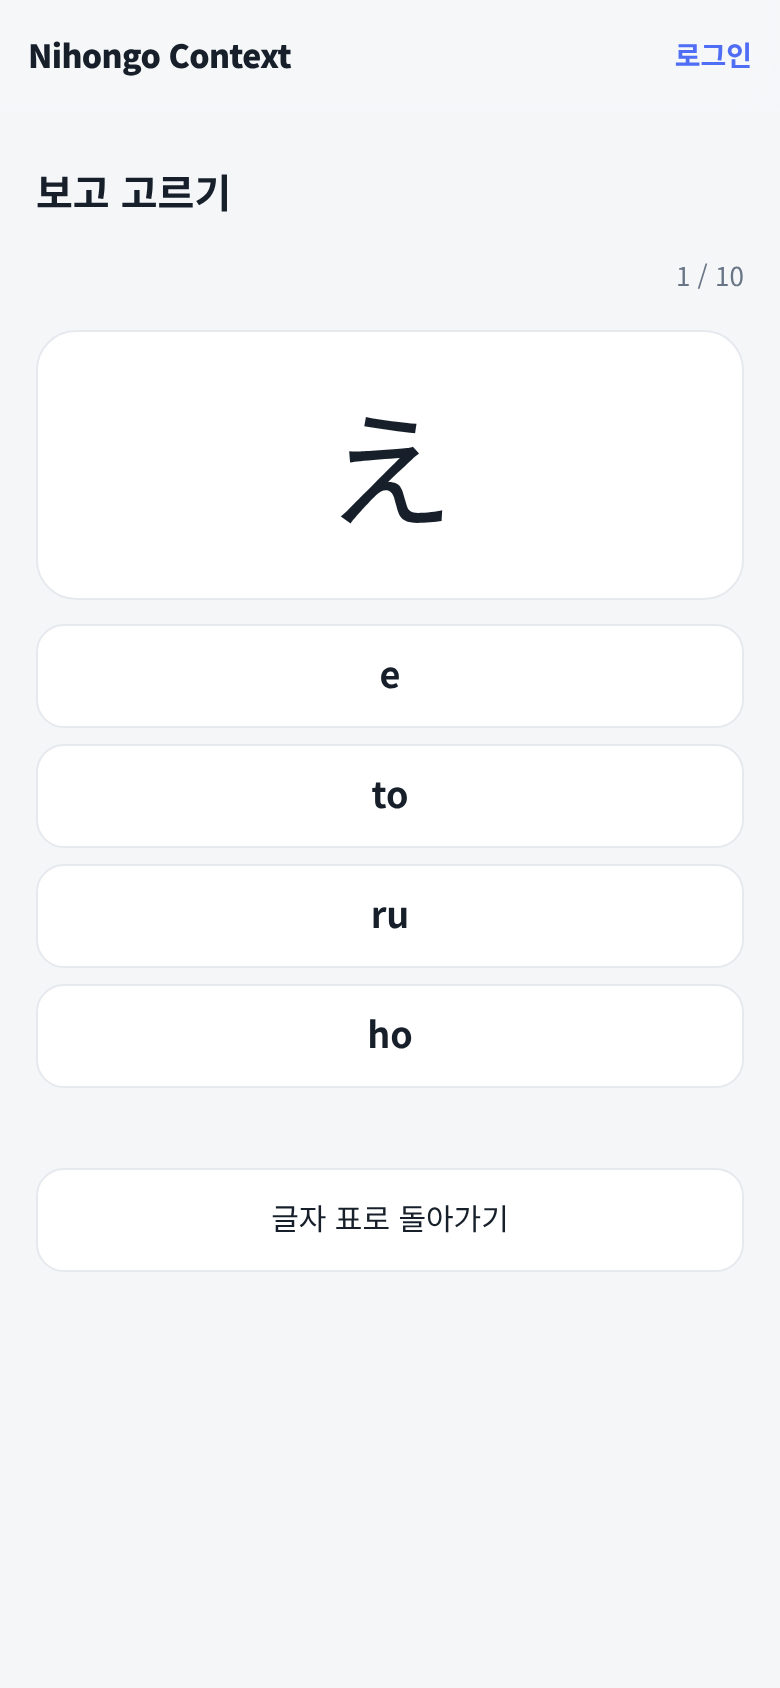
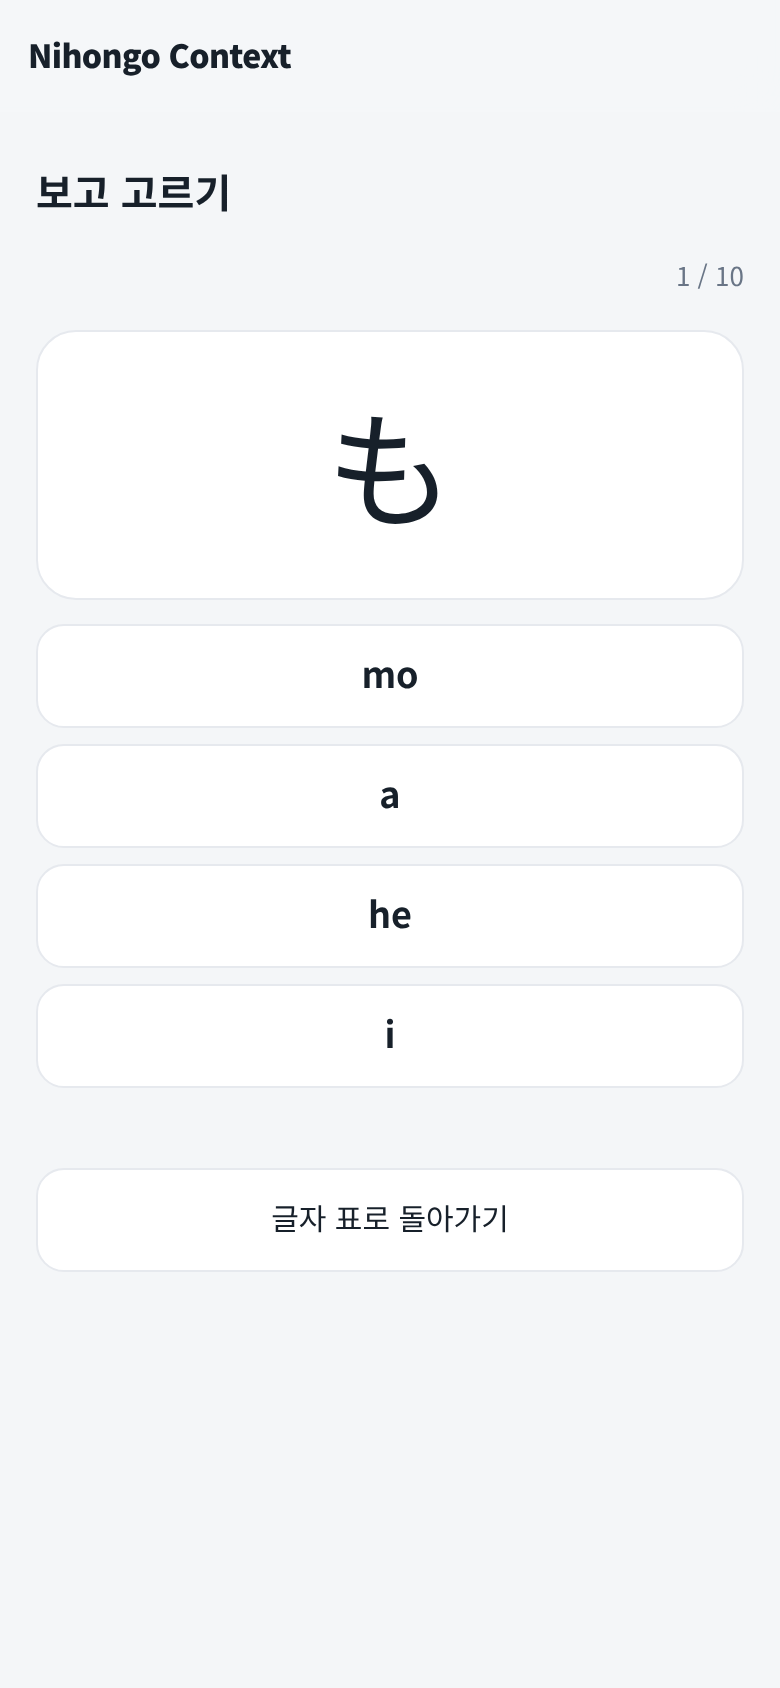
Nihongo Context page: drop trial and owner-only login content
- Copy no longer describes a login-free trial or an owner-only account; the public-trial
  highlight is replaced by single-host operations, and the zero-API-call stat by the
  13 generation checks
- Screenshots retaken without the trial banner and login button; home shot replaced
  by the katakana loanword list
- Diagram labels no longer say trial or study only

Claude-Session: https://claude.ai/code/session_015RcEmhiTXzsX84TqVGpdRG

diff --git a/app_nihongo.html b/app_nihongo.html
@@ -59,11 +59,11 @@
 
     <section class="detail-section" id="s1">
       <h2><span class="num">01</span><span data-lang="detail_common_a_s1">Why I built it</span></h2>
-      <p data-lang="detail_nihongo_overview">Textbook study and exam preparation did not get me closer to following everyday Japanese on YouTube. That takes recognising many words, grammar patterns and set phrases inside real sentences, and flashcards strip them out of the sentences they live in. Nihongo Context turns this around. You read a Japanese sentence with the translation hidden, tap only what you do not know, and read what that expression means in this sentence. The app then decides when the expression should come back and in which context, starting with the sentence where you first met it and moving on to sentences you have never seen. Visitors can try the same interaction on 171 fixed sentences, and practise hiragana and katakana, without logging in.</p>
+      <p data-lang="detail_nihongo_overview">Textbook study and exam preparation did not get me closer to following everyday Japanese on YouTube. That takes recognising many words, grammar patterns and set phrases inside real sentences, and flashcards strip them out of the sentences they live in. Nihongo Context turns this around. You read a Japanese sentence with the translation hidden, tap only what you do not know, and read what that expression means in this sentence. The app then decides when the expression should come back and in which context, starting with the sentence where you first met it and moving on to sentences you have never seen. Alongside the sentences, it teaches hiragana and katakana with tables and quizzes.</p>
       <div class="findings">
         <div class="finding"><div class="k" data-lang="detail_nihongo_goal1_label">Context over cards</div><p data-lang="detail_nihongo_goal1_body">Every review shows an expression inside a sentence, and the context gets less familiar as the expression gets more familiar.</p></div>
         <div class="finding"><div class="k" data-lang="detail_nihongo_goal2_label">Never wait on a model</div><p data-lang="detail_nihongo_goal2_body">An LLM writes new sentences in the background. A tap is always answered from explanations that already exist.</p></div>
-        <div class="finding"><div class="k" data-lang="detail_nihongo_goal3_label">Nothing untrusted reaches the learner</div><p data-lang="detail_nihongo_goal3_body">Generated sentences pass deterministic checks before they are stored, and stored browser state is validated before it is used.</p></div>
+        <div class="finding"><div class="k" data-lang="detail_nihongo_goal3_label">Nothing untrusted reaches the learner</div><p data-lang="detail_nihongo_goal3_body">Generated sentences pass deterministic checks before they are stored, and retried or duplicate answers are rejected instead of applied twice.</p></div>
       </div>
     </section>
 
@@ -73,15 +73,15 @@
         <li data-lang="detail_nihongo_feature1">Sentence-first study: tap an expression to see its reading, dictionary form, core meaning, meaning in this sentence, nuance and an example, then optionally say whether you knew it.</li>
         <li data-lang="detail_nihongo_feature2">A 12-minute session that mixes review, new and exploration sentences at 70/20/10, and switches to a review-heavy mix when too many items are due.</li>
         <li data-lang="detail_nihongo_feature3">Review timing by FSRS, and review context by a ladder: the original sentence, a near-copy, then new sentences, stepping back after an explicit "didn't know".</li>
-        <li data-lang="detail_nihongo_feature4">A login-free trial with 171 fixed sentences covering all 200 seed expressions, using the same renderer and interaction code as the real study screen.</li>
+        <li data-lang="detail_nihongo_feature4">A seed library of 200 expressions in 765 sentences, where every tappable expression ships with its explanation, so opening one never waits on a model.</li>
         <li data-lang="detail_nihongo_feature5">Hiragana and katakana tables across seven ranges (263 entries) with two quiz modes, and a furigana toggle that places readings over kanji.</li>
-        <li data-lang="detail_nihongo_feature6">Owner-only login with Argon2id and a strict host-only session cookie, study history, and a background worker that keeps the sentence pool topped up.</li>
+        <li data-lang="detail_nihongo_feature6">Study history per session and per expression, and a background worker that keeps the sentence pool topped up.</li>
       </ul>
       <div class="shots">
-        <figure class="evidence" data-evidence="0"><figcaption data-lang="detail_nihongo_shot1">Home: visitors choose between the expression trial and kana practice, with no account. The interface is in Korean because the app is built for Korean speakers learning Japanese.</figcaption></figure>
-        <figure class="evidence" data-evidence="1"><figcaption data-lang="detail_nihongo_shot2">Tapping 知っ opens the explanation sheet: reading, dictionary form, meaning, meaning in this sentence, nuance and an example. Rating it is optional.</figcaption></figure>
-        <figure class="evidence" data-evidence="2"><figcaption data-lang="detail_nihongo_shot3">Furigana on and translation revealed. The readings were computed when the sentence was saved, not when it is shown.</figcaption></figure>
-        <figure class="evidence" data-evidence="3"><figcaption data-lang="detail_nihongo_shot4">Hiragana table with seven ranges; each entry shows romaji and a Korean sound approximation.</figcaption></figure>
+        <figure class="evidence" data-evidence="0"><figcaption data-lang="detail_nihongo_shot1">Tapping 知っ opens the explanation sheet: reading, dictionary form, meaning, meaning in this sentence, nuance and an example. Rating it is optional. The interface is in Korean because the app is built for Korean speakers learning Japanese.</figcaption></figure>
+        <figure class="evidence" data-evidence="1"><figcaption data-lang="detail_nihongo_shot2">Furigana on and translation revealed. The readings were computed when the sentence was saved, not when it is shown.</figcaption></figure>
+        <figure class="evidence" data-evidence="2"><figcaption data-lang="detail_nihongo_shot3">Hiragana table with seven ranges; each entry shows romaji and a Korean sound approximation.</figcaption></figure>
+        <figure class="evidence" data-evidence="3"><figcaption data-lang="detail_nihongo_shot4">Katakana loanwords: a word list with romaji and Korean meanings.</figcaption></figure>
         <figure class="evidence" data-evidence="4"><figcaption data-lang="detail_nihongo_shot5">Kana quiz, choose-the-romaji mode. Missed characters come back once at the end of the round.</figcaption></figure>
         <figure class="evidence" data-evidence="5"><figcaption data-lang="detail_nihongo_shot6">Kana quiz, read-aloud mode: reveal the answer, then mark yourself right or wrong.</figcaption></figure>
       </div>
@@ -89,9 +89,9 @@
 
     <section class="detail-section" id="s3">
       <h2><span class="num">03</span><span data-lang="detail_common_a_s3">How it works</span></h2>
-      <p data-lang="detail_nihongo_arch_body">The system has four parts with strict boundaries. The frontend is static TypeScript on Cloudflare; the home, trial and kana screens run entirely on data bundled into it and make no API calls. Logged-in study goes to a FastAPI service reached through a Cloudflare Tunnel, which reads and writes learning state in PostgreSQL and picks the next sentence. It never talks to the LLM. A separate worker claims jobs from a PostgreSQL table, asks the LLM for batches of sentences with explanations, validates them, adds furigana with a morphological analyzer, and stores them. The API, the worker and PostgreSQL run in Docker Compose on one host, with the database bound to localhost.</p>
+      <p data-lang="detail_nihongo_arch_body">The system has four parts with strict boundaries. The frontend is static TypeScript on Cloudflare, and kana practice runs entirely in the browser. Study goes to a FastAPI service reached through a Cloudflare Tunnel, which reads and writes learning state in PostgreSQL and picks the next sentence. It never talks to the LLM. A separate worker claims jobs from a PostgreSQL table, asks the LLM for batches of sentences with explanations, validates them, adds furigana with a morphological analyzer, and stores them. The API, the worker and PostgreSQL run in Docker Compose on one host, with the database bound to localhost.</p>
       <figure class="diagram" data-illus="nihongo.arch" role="img" aria-label="Browser, static hosting, FastAPI, PostgreSQL, worker and LLM, with the API never calling the LLM.">
-        <figcaption data-lang="detail_nihongo_fig_arch">The request path (browser, API, PostgreSQL) never waits on the LLM. Generation happens in the worker, and the public screens do not use the API at all.</figcaption>
+        <figcaption data-lang="detail_nihongo_fig_arch">The request path (browser, API, PostgreSQL) never waits on the LLM. Generation happens ahead of time in the worker.</figcaption>
       </figure>
       <div class="flow">
         <div class="step"><i>1</i><b data-lang="detail_nihongo_pipeline_step1_title">Read</b><span data-lang="detail_nihongo_pipeline_step1">The learner sees a Japanese sentence with the translation hidden. Tappable expressions already carry their explanations.</span></div>
@@ -108,9 +108,9 @@
         <div class="highlight"><b data-lang="detail_nihongo_hl1_title">Separating when from which context</b><p data-lang="detail_nihongo_hl1_body">FSRS answers when an expression is due; a context ladder (anchor, near-original, varied, new context) answers which sentence shows it. The ladder climbs after each exposure and drops one step only on an explicit "didn't know", which also schedules a context repair. Reinforcement tops exposures up to five meaningful ones without shortening FSRS intervals, and a review with no answer neither rates FSRS nor loops.</p></div>
         <div class="highlight"><b data-lang="detail_nihongo_hl2_title">LLM output treated as untrusted input</b><p data-lang="detail_nihongo_hl2_body">The model never sees database IDs, only request-local labels that the worker maps back. One strict-schema call returns sentences, translations, spans and full explanations. Thirteen deterministic checks (span bounds and overlap, surface match, length, required explanations, exact and near-duplicate detection at 0.90 similarity, unknown references) run before anything is written, and each rejection keeps a reason code.</p></div>
         <div class="highlight"><b data-lang="detail_nihongo_hl3_title">A job queue inside PostgreSQL</b><p data-lang="detail_nihongo_hl3_body">No Redis or Celery. Jobs are rows claimed with FOR UPDATE SKIP LOCKED, with a 300 s lease for crashed workers, retries with backoff, idempotency keys and a closed set of dead-letter reasons. The provider call happens outside any database transaction, and daily request and token ceilings are checked before a job is claimed, so a limit never burns retries.</p></div>
-        <div class="highlight"><b data-lang="detail_nihongo_hl4_title">Furigana at save time, not request time</b><p data-lang="detail_nihongo_hl4_body">A morphological analyzer adds about 200 MB to an image and gets common context-dependent readings wrong. It runs only in the worker when a sentence is saved: readings align to kanji runs, never cross a tappable span, prefer the reading from the item's own explanation, and fall back to a small table of context rules. The API just slices the stored ruby. On the 171 trial sentences: 171 computed, 0 failures, 0 reading mismatches.</p></div>
-        <div class="highlight"><b data-lang="detail_nihongo_hl5_title">A public trial that cannot reach the API</b><p data-lang="detail_nihongo_hl5_body">The trial reuses the real renderer and interaction controller, with network operations swapped for a generated fixture in the API's payload shape. Isolation is enforced three ways: a TypeScript AST import-graph test bans API modules from public screens, a build check scans the bundle, and a Playwright test runs the screens with no API. Stored progress is validated as untrusted input on load.</p></div>
-        <div class="highlight"><b data-lang="detail_nihongo_hl6_title">Correct under retries and double taps</b><p data-lang="detail_nihongo_hl6_body">One piece of evidence per exposure is enforced by a unique index, so a retried self-report gets 409 and cannot run the mastery update or the FSRS step twice. A partial unique index allows one open presentation per session, FSRS rows are locked while they change, and a boot-time audit refuses to start if any route outside a two-entry allowlist is reachable without authentication.</p></div>
+        <div class="highlight"><b data-lang="detail_nihongo_hl4_title">Furigana at save time, not request time</b><p data-lang="detail_nihongo_hl4_body">A morphological analyzer adds about 200 MB to an image and gets common context-dependent readings wrong. It runs only in the worker when a sentence is saved: readings align to kanji runs, never cross a tappable span, prefer the reading from the item's own explanation, and fall back to a small table of context rules. The API just slices the stored ruby. On a 171-sentence set: 171 computed, 0 failures, 0 reading mismatches.</p></div>
+        <div class="highlight"><b data-lang="detail_nihongo_hl5_title">Operations built for one host</b><p data-lang="detail_nihongo_hl5_body">Migrations run only after a verified backup, and there is no downgrade path: rollback means restore. A restore drill rebuilds the database in a scratch copy, compares it with the source and exercises real reads before dropping it. The worker writes heartbeats in a separate session so a rolled-back job still proves liveness, the health endpoint flags a worker silent for 120 s, and the worker refuses to boot without its analyzer, provider key or active prompt versions.</p></div>
+        <div class="highlight"><b data-lang="detail_nihongo_hl6_title">Correct under retries and double taps</b><p data-lang="detail_nihongo_hl6_body">One piece of evidence per exposure is enforced by a unique index, so a retried self-report gets 409 and cannot run the mastery update or the FSRS step twice. A partial unique index allows one open presentation per session, FSRS rows are locked while they change, and server-issued events carry deterministic UUIDv5 idempotency keys.</p></div>
       </div>
     </section>
 
@@ -119,13 +119,13 @@
       <div class="statrow">
         <div class="stat"><div class="v" data-lang="detail_nihongo_stat1_value">1,273</div><div class="l" data-lang="detail_nihongo_stat1_label">backend unit and integration tests, run against a real PostgreSQL 16</div></div>
         <div class="stat"><div class="v" data-lang="detail_nihongo_stat2_value">750</div><div class="l" data-lang="detail_nihongo_stat2_label">frontend unit tests, including import-graph and bundle checks</div></div>
-        <div class="stat"><div class="v" data-lang="detail_nihongo_stat3_value">55</div><div class="l" data-lang="detail_nihongo_stat3_label">end-to-end tests in real Chrome covering study, trial, kana and furigana</div></div>
-        <div class="stat"><div class="v" data-lang="detail_nihongo_stat4_value">0</div><div class="l" data-lang="detail_nihongo_stat4_label">API calls from the home, trial and kana screens, checked on the live site</div></div>
+        <div class="stat"><div class="v" data-lang="detail_nihongo_stat3_value">55</div><div class="l" data-lang="detail_nihongo_stat3_label">end-to-end tests in real Chrome covering study, kana and furigana</div></div>
+        <div class="stat"><div class="v" data-lang="detail_nihongo_stat4_value">13</div><div class="l" data-lang="detail_nihongo_stat4_label">deterministic checks every generated sentence passes before it is stored</div></div>
       </div>
       <ul>
         <li data-lang="detail_nihongo_quality1">mypy in strict mode and ruff report no issues across 176 Python files, and the frontend type-checks with tsc --noEmit.</li>
         <li data-lang="detail_nihongo_quality2">Architecture rules are tests: 14 import and write guards keep the LLM SDK out of the API process, FSRS writes inside the scheduling module, and commits inside allowlisted functions.</li>
-        <li data-lang="detail_nihongo_quality3">Operations are rehearsed: migrations run only after a verified backup, and a restore check rebuilds the database in a scratch copy and exercises login and history before dropping it.</li>
+        <li data-lang="detail_nihongo_quality3">Time is injected everywhere, so scheduling, deferral and lease rules are tested deterministically instead of against the wall clock.</li>
       </ul>
     </section>
 
@@ -133,13 +133,13 @@
       <h2><span class="num">06</span><span data-lang="detail_common_a_s6">Decisions &amp; trade-offs</span></h2>
       <ul>
         <li data-lang="detail_nihongo_design_item1">PostgreSQL as the job queue instead of Redis. One host means one datastore to back up; SKIP LOCKED and leases give enough concurrency for one worker pool, at the cost of polling.</li>
-        <li data-lang="detail_nihongo_design_item2">No UI framework on the frontend. Plain DOM with textContent only keeps the bundle small, and made it possible to prove with an import-graph test which screens can reach the API.</li>
+        <li data-lang="detail_nihongo_design_item2">No UI framework on the frontend. Plain DOM with textContent only keeps the bundle small, and made it possible to enforce module boundaries with an import-graph test.</li>
         <li data-lang="detail_nihongo_design_item3">No corrections to self-reports. Undoing a mastery or FSRS step needs history that is not stored, so a second answer is rejected rather than half-applied.</li>
-        <li data-lang="detail_nihongo_design_item4">No lockout on the single-account login. Lockout would let anyone lock the owner out; a 16-character minimum password hashed with Argon2id is the defence instead.</li>
+        <li data-lang="detail_nihongo_design_item4">Explanations generated together with each sentence, not on tap. Batches spend more tokens up front, but a tap never waits on a model and every explanation is validated before a learner sees it.</li>
       </ul>
       <div class="takeaway">
         <b data-lang="detail_common_a_retro">Looking back</b>
-        <span data-lang="detail_nihongo_takeaway">The product idea is simple; the work was in the boundaries. Deciding that the model never sits in a request, that its output is validated like user input, and that every rule about which code may touch what is a test, is what let a learning engine, an LLM pipeline and a public demo live in one codebase without stepping on each other.</span>
+        <span data-lang="detail_nihongo_takeaway">The product idea is simple; the work was in the boundaries. Deciding that the model never sits in a request, that its output is validated like user input, and that every rule about which code may touch what is a test, is what let a learning engine, an LLM pipeline and a static frontend live in one codebase without stepping on each other.</span>
       </div>
     </section>
 

diff --git a/assets/js/scenes/nihongo.js b/assets/js/scenes/nihongo.js
@@ -51,7 +51,7 @@
     I.isoPhone(s, p(0, 10, 0), { w: 38 * k, d: 58 * k, h: 5 * k });
     var phoneTop = p(19, 39, 5);
 
-    /* ---- plain request path: browser -> API (logged-in study only) ------ */
+    /* ---- plain request path: browser -> API -------------------------------- */
     var ph = p(38, 36, 8), ap = p(66, 30, SH + 10);
     I.arrow(s, ph[0] + 2 * k, ph[1], ap[0] - 2 * k, ap[1], { color: t.slate, width: 1.2 });
 
@@ -71,7 +71,7 @@
     if (!hero) return;
 
     I.leader(s, phoneTop[0] - 30 * k, phoneTop[1] - 50 * k, phoneTop[0], phoneTop[1] - 2,
-      'browser · trial and kana need no server', { anchor: 'end' });
+      'browser · static TypeScript frontend', { anchor: 'end' });
     var mid = [(wkTop[0] + llmFoot[0]) / 2, (wkTop[1] + llmFoot[1]) / 2 - 3 * k];
     I.leader(s, mid[0] - 50 * k, mid[1] - 34 * k, mid[0] - 2, mid[1],
       'sentences generated ahead of time', { anchor: 'end', accent: true });
@@ -85,17 +85,17 @@
 
   function hero(s, ctx) { stage(s, ctx); }
   hero.kind = 'hero';
-  hero.aria = 'Isometric view of Nihongo Context: a browser uses the API only for logged-in study, while a background worker asks an LLM for new study sentences ahead of time and stores them, with their review schedule and furigana, in PostgreSQL.';
+  hero.aria = 'Isometric view of Nihongo Context: a browser talks to the API for study, while a background worker asks an LLM for new study sentences ahead of time and stores them, with their review schedule and furigana, in PostgreSQL.';
 
   /* ---------------------------------------------------------- s3: arch */
   function arch(s, ctx) {
     var t = ctx.tokens;
 
-    I.box(s, 24, 40, 176, 62, { label: 'browser', sub: 'trial · kana: 0 API calls' });
+    I.box(s, 24, 40, 176, 62, { label: 'browser', sub: 'static TypeScript' });
     I.arrow(s, 112, 102, 112, 150, { both: true, label: 'HTML / JS', labelDx: 8, labelAnchor: 'start', labelDy: 4 });
     I.box(s, 24, 150, 176, 52, { label: 'static hosting', sub: 'Cloudflare' });
 
-    I.arrow(s, 200, 71, 272, 71, { dashed: true, label: 'study only', labelDy: -8, size: 9.5 });
+    I.arrow(s, 200, 71, 272, 71, { dashed: true, label: 'study API', labelDy: -8, size: 9.5 });
     I.box(s, 272, 40, 156, 62, { label: 'FastAPI', sub: 'auth · selection · events' });
     I.arrow(s, 350, 102, 350, 150, { both: true });
     I.box(s, 272, 150, 156, 62, { label: 'PostgreSQL 16', sub: '20 tables · job queue' });
@@ -117,7 +117,7 @@
   }
   arch.kind = 'diagram';
   arch.height = 310;
-  arch.aria = 'The browser loads static files from Cloudflare and uses the FastAPI service only for logged-in study; the API reads and writes PostgreSQL. A worker claims jobs from PostgreSQL with SKIP LOCKED, calls the LLM for structured JSON, and runs 13 checks before writing to the ready pool. A crossed dashed line marks that the API never calls the LLM.';
+  arch.aria = 'The browser loads static files from Cloudflare and uses the FastAPI service for study; the API reads and writes PostgreSQL. A worker claims jobs from PostgreSQL with SKIP LOCKED, calls the LLM for structured JSON, and runs 13 checks before writing to the ready pool. A crossed dashed line marks that the API never calls the LLM.';
 
   I.scenes.nihongo = { thumb: thumb, hero: hero, arch: arch };
 })();

diff --git a/assets/js/works-data.js b/assets/js/works-data.js
@@ -293,17 +293,17 @@ window.WORKS = [
     diagrams: [
       { name: "arch", section: "s3" }
     ],
-    keyfact: "2,078 tests · trial makes 0 API calls",
+    keyfact: "2,078 tests · 13 checks per generated sentence",
     results: null,
     evidence: [
-      { src: "assets/img/nihongo-home.png", webp: "assets/img/nihongo-home.webp", width: 780, height: 1688, frame: "phone", zoom: true,
-        alt: "Home screen with two cards: try expression learning, or learn kana first", captionKey: "detail_nihongo_shot1" },
       { src: "assets/img/nihongo-sheet.png", webp: "assets/img/nihongo-sheet.webp", width: 780, height: 1688, frame: "phone", zoom: true,
-        alt: "Explanation sheet for the tapped expression with reading, meaning, meaning in context, nuance and an example", captionKey: "detail_nihongo_shot2" },
+        alt: "Explanation sheet for the tapped expression with reading, meaning, meaning in context, nuance and an example", captionKey: "detail_nihongo_shot1" },
       { src: "assets/img/nihongo-furigana.png", webp: "assets/img/nihongo-furigana.webp", width: 780, height: 1688, frame: "phone", zoom: true,
-        alt: "Trial sentence with furigana readings above the kanji and the Korean translation revealed", captionKey: "detail_nihongo_shot3" },
+        alt: "Study sentence with furigana readings above the kanji and the Korean translation revealed", captionKey: "detail_nihongo_shot2" },
       { src: "assets/img/nihongo-kana.png", webp: "assets/img/nihongo-kana.webp", width: 780, height: 1688, frame: "phone", zoom: true,
-        alt: "Hiragana table with range chips and romaji under each character", captionKey: "detail_nihongo_shot4" },
+        alt: "Hiragana table with range chips and romaji under each character", captionKey: "detail_nihongo_shot3" },
+      { src: "assets/img/nihongo-loanwords.png", webp: "assets/img/nihongo-loanwords.webp", width: 780, height: 1688, frame: "phone", zoom: true,
+        alt: "Katakana loanword list with romaji and Korean meanings", captionKey: "detail_nihongo_shot4" },
       { src: "assets/img/nihongo-quiz-choose.png", webp: "assets/img/nihongo-quiz-choose.webp", width: 780, height: 1688, frame: "phone", zoom: true,
         alt: "Kana quiz asking for the romaji of a character from four choices", captionKey: "detail_nihongo_shot5" },
       { src: "assets/img/nihongo-quiz-read.png", webp: "assets/img/nihongo-quiz-read.webp", width: 780, height: 1688, frame: "phone", zoom: true,
